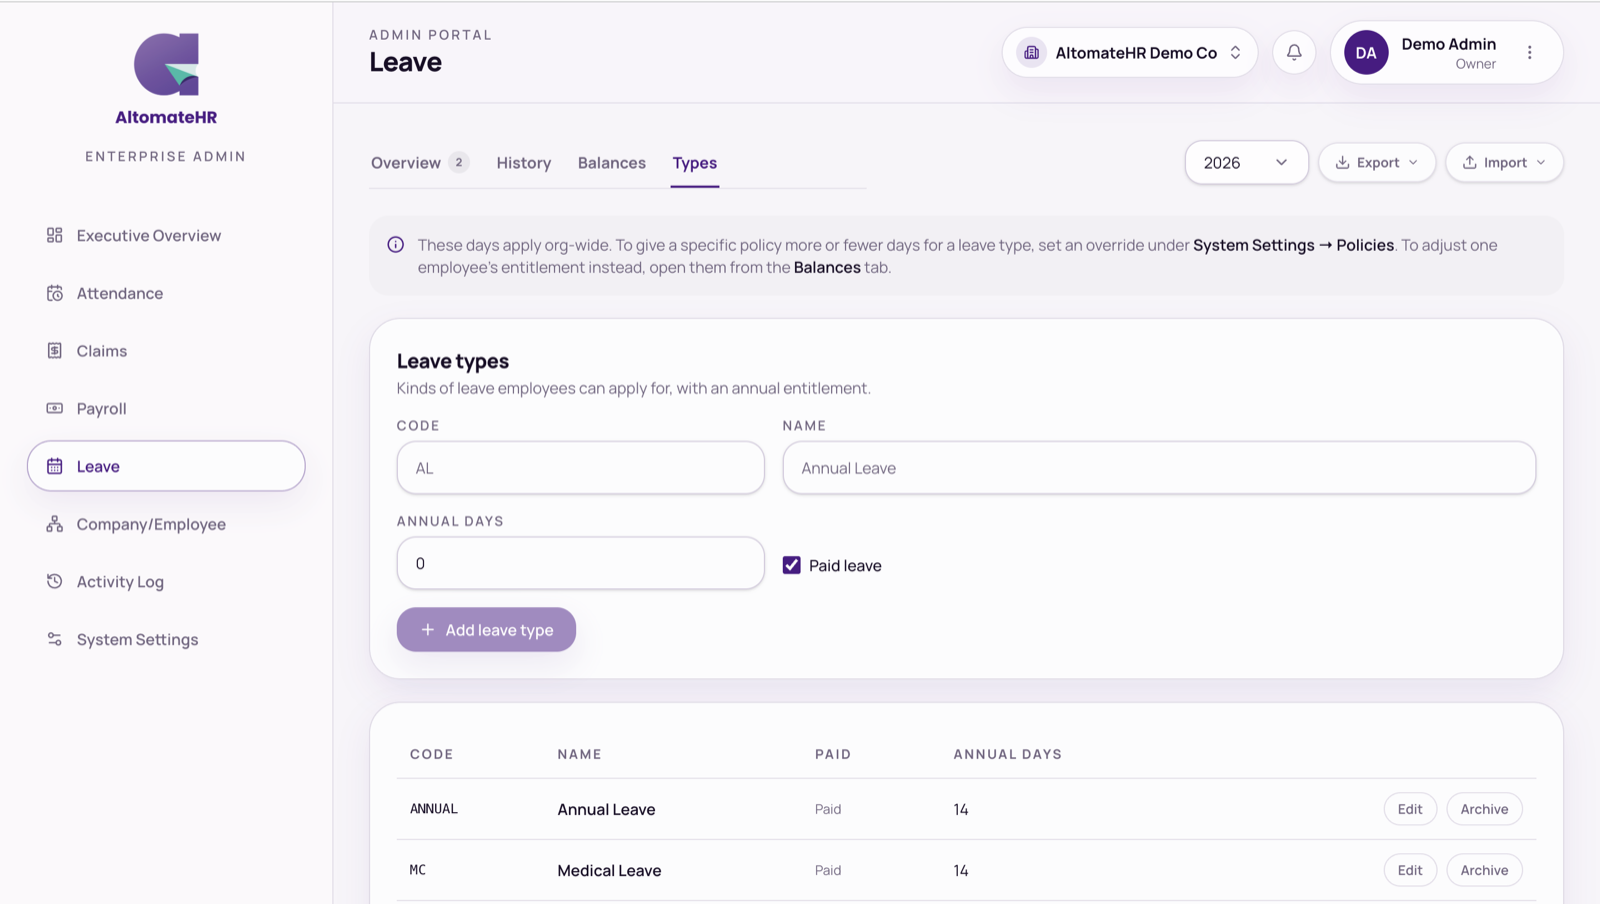
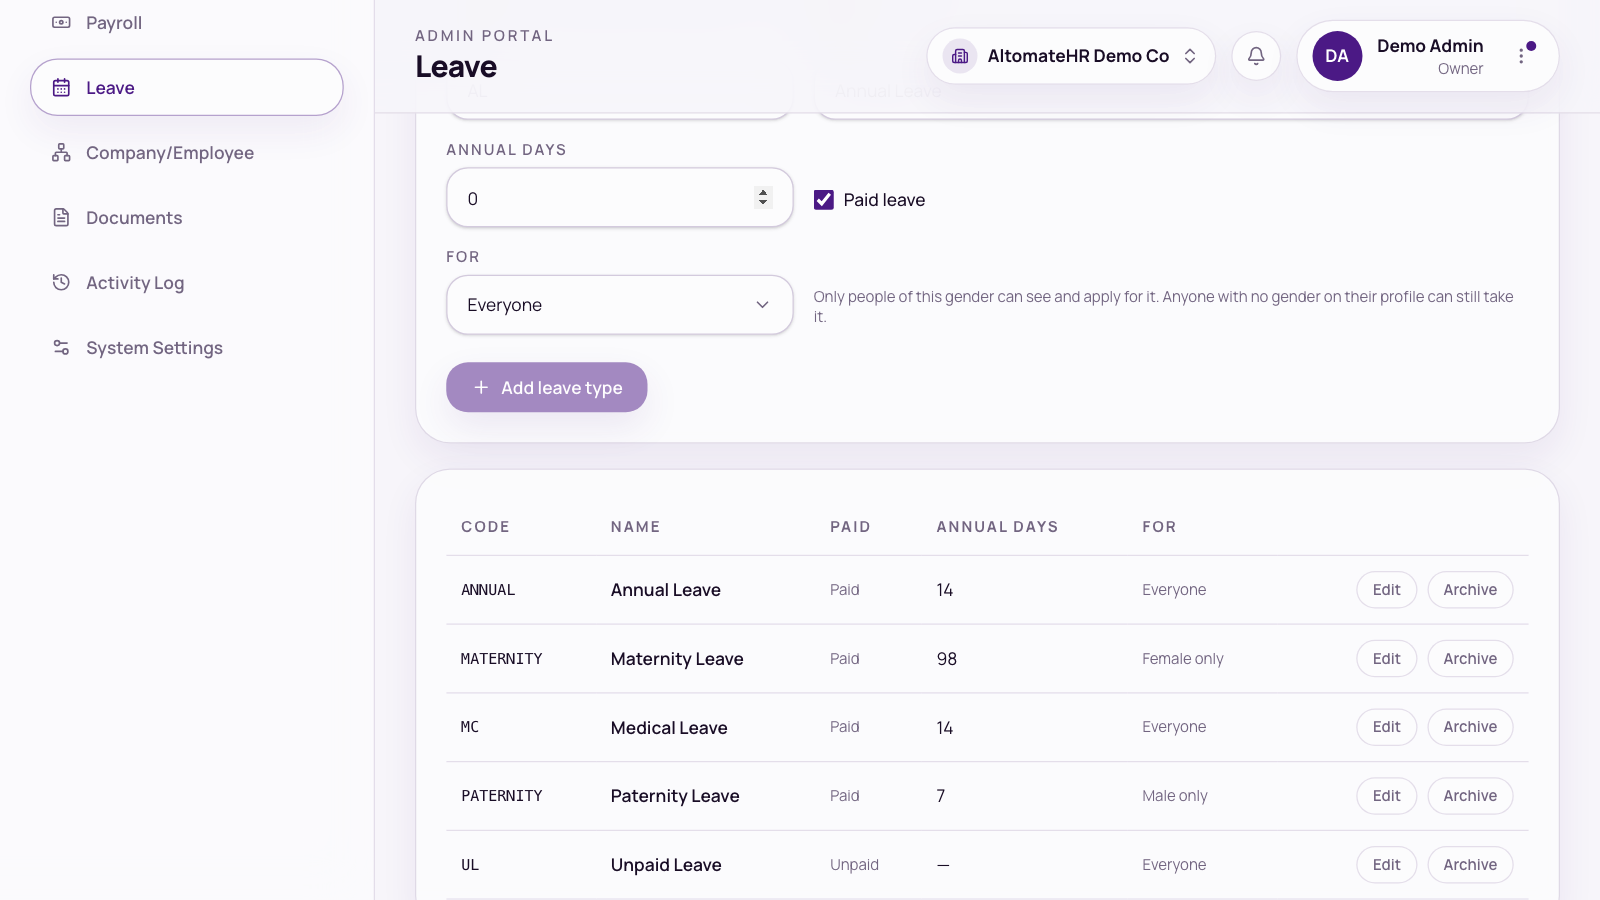
docs: what's new, API docs and user guides for the leave-type gender limit

diff --git a/api-docs/leave.html b/api-docs/leave.html
@@ -178,7 +178,7 @@
         <table>
           <thead><tr><th>Field</th><th>Type</th><th>Meaning</th></tr></thead>
           <tbody>
-            <tr><td><code>leaveTypeId</code>, <code>code</code>, <code>name</code></td><td>string</td><td>The leave type. Archived types are left out.</td></tr>
+            <tr><td><code>leaveTypeId</code>, <code>code</code>, <code>name</code></td><td>string</td><td>The leave type. Archived types are left out, and so is a type that isn't for this person (see <code>eligible</code>).</td></tr>
             <tr><td><code>paid</code></td><td>boolean</td><td></td></tr>
             <tr><td><code>year</code></td><td>number</td><td></td></tr>
             <tr><td><code>isOpened</code></td><td>boolean</td><td><code>false</code> when no entitlement row exists for that year yet (the year-end rollover hasn't run, and nothing has been filed). The figures are then a projection of what the rollover <em>would</em> create, not stored state.</td></tr>
@@ -191,6 +191,7 @@
             <tr><td><code>takenDays</code></td><td>number</td><td>Sum of <code>APPROVED</code> applications that <em>start</em> in this year.</td></tr>
             <tr><td><code>pendingDays</code></td><td>number</td><td>Sum of <code>PENDING</code> applications that start in this year. Not deducted from <code>remainingDays</code>.</td></tr>
             <tr><td><code>remainingDays</code></td><td>number</td><td>What the person may book now: the available bucket plus unexpired carry-forward, minus <code>takenDays</code>.</td></tr>
+            <tr><td><code>eligible</code></td><td>boolean</td><td>Whether the leave type is open to this person, going by the type's <code>eligibleGender</code> and the gender on their profile. <code>false</code> only on a gender-restricted type they have pending or approved leave of that year (see below); a new request for it is refused.</td></tr>
           </tbody>
         </table>
       </div>
@@ -209,8 +210,22 @@
   "carriedExpired": false,
   "takenDays": 2,
   "pendingDays": 0,
-  "remainingDays": 12
+  "remainingDays": 12,
+  "eligible": true
 }</code></pre>
+      <div class="callout">
+        <strong>A type that isn't for the person is left out.</strong> A leave type with an
+        <code>eligibleGender</code> (by default <code>MATERNITY</code> for <code>FEMALE</code> and
+        <code>PATERNITY</code> for <code>MALE</code>) doesn't appear in the balances of someone of
+        the other gender. The exception is leave they already have: if they have a
+        <code>PENDING</code> or <code>APPROVED</code> application of that type starting in the
+        year asked for, the type stays listed, with <code>eligible: false</code>, so the leave they
+        hold stays visible. Someone with no gender on their profile is treated as eligible for
+        everything, so nothing is hidden. The rule is applied by
+        <code>/leave/balances/all</code>, <code>/leave/balances/{employeeId}</code>,
+        <code>/leave/balances</code>, <code>/leave/team/balances</code> and the balance
+        spreadsheets, so a list can have fewer entries than <code>GET /leave-types</code>.
+      </div>
     </section>
 
     <section class="section" id="leave-types">
@@ -245,6 +260,7 @@
               <tr><td><code>carryExpiryMonth</code></td><td>number | null</td><td>Month (1–12) the carried days lapse.</td></tr>
               <tr><td><code>maxCarryForwardDays</code></td><td>number | null</td><td>Ceiling on carried days; <code>null</code> = uncapped.</td></tr>
               <tr><td><code>prorateFirstYear</code></td><td>boolean</td><td>Stored with the type. Only meaningful with <code>LUMP_SUM</code>.</td></tr>
+              <tr><td><code>eligibleGender</code></td><td>string | null</td><td>Who may take it: <code>FEMALE</code> or <code>MALE</code> for that gender only, <code>null</code> for everyone. Compared with the gender on the employee's profile (<a href="employees.html">employees.html</a>).</td></tr>
             </tbody>
           </table>
         </div>
@@ -285,6 +301,7 @@
               <tr><td><code>carryExpiryMonth</code></td><td>number</td><td>When <code>carryForward</code> is <code>true</code></td><td>1–12.</td></tr>
               <tr><td><code>maxCarryForwardDays</code></td><td>number | null</td><td>No</td><td>0 or more. <code>null</code> = no cap.</td></tr>
               <tr><td><code>prorateFirstYear</code></td><td>boolean</td><td>No</td><td>Default <code>false</code>.</td></tr>
+              <tr><td><code>eligibleGender</code></td><td>string | null</td><td>No</td><td><code>FEMALE</code> or <code>MALE</code> to limit the type to that gender; <code>null</code> or left out = everyone. Any other value is a <code>400</code>.</td></tr>
             </tbody>
           </table>
         </div>
@@ -323,7 +340,9 @@
           body; one you leave out falls back to its default (<code>paid</code> to <code>true</code>,
           <code>defaultDays</code> to <code>0</code>, <code>accrualMethod</code> to
           <code>LUMP_SUM</code>, <code>carryForward</code> and <code>prorateFirstYear</code> to
-          <code>false</code>, the carry fields to <code>null</code>). Read the type first and send
+          <code>false</code>, the carry fields and <code>eligibleGender</code> to <code>null</code> &mdash; so
+          omitting <code>eligibleGender</code> lifts a gender restriction, e.g. on
+          <code>MATERNITY</code>). Read the type first and send
           it back with your change. <code>isArchived</code> is not touched — use
           <a href="#archive-leave-type">archive/restore</a>.
         </div>
@@ -357,7 +376,8 @@
     "carryForward": true,
     "carryExpiryMonth": 3,
     "maxCarryForwardDays": 5,
-    "prorateFirstYear": false
+    "prorateFirstYear": false,
+    "eligibleGender": null
   }'</code></pre>
       </section>
 
@@ -417,6 +437,8 @@
           <code>ANNUAL</code> (14 days), <code>MEDICAL</code> (14), <code>COMPASSIONATE</code> (3),
           <code>HOSPITALIZATION</code> (60), <code>MARRIAGE</code> (3), <code>MATERNITY</code> (98),
           <code>PATERNITY</code> (7), and <code>UNPAID</code> (0, unpaid).
+          <code>MATERNITY</code> is created with <code>eligibleGender: "FEMALE"</code> and
+          <code>PATERNITY</code> with <code>"MALE"</code>; the others are open to everyone.
         </p>
         <h3>Response <code>200</code></h3>
 <pre><code>{ "added": 2 }</code></pre>
@@ -562,8 +584,9 @@
         </div>
         <h3>Response <code>200</code></h3>
         <p>
-          The person's resulting leave balance for that type. If the leave type is archived,
-          balances don't list it, and the call succeeds with <code>204</code> and no body.
+          The person's resulting leave balance for that type. If balances don't list the type
+          &mdash; it is archived, or it isn't for this person's gender and they have no leave of it
+          that year &mdash; the call still succeeds, with <code>204</code> and no body.
         </p>
         <h3>Errors</h3>
         <div class="table-wrap">
@@ -594,7 +617,7 @@
           accrual-method override. No request body; optional <code>?year=</code>.
         </p>
         <h3>Response <code>200</code></h3>
-        <p>The resulting leave balance (or <code>204</code> for an archived type, as above).</p>
+        <p>The resulting leave balance (or <code>204</code> when balances don't list the type, as above).</p>
         <h3>Errors</h3>
         <p>
           <code>400</code> <code>{ "message": "Leave type not found" }</code>;
@@ -834,7 +857,7 @@
           <table>
             <thead><tr><th>Field</th><th>Type</th><th>Required</th><th>Notes</th></tr></thead>
             <tbody>
-              <tr><td><code>leaveTypeId</code></td><td>string</td><td>Yes</td><td>Max 40 chars. From <code>GET /leave-types</code>; the type must not be archived.</td></tr>
+              <tr><td><code>leaveTypeId</code></td><td>string</td><td>Yes</td><td>Max 40 chars. From <code>GET /leave-types</code>; the type must not be archived and must be open to the employee's gender (see <code>eligibleGender</code>).</td></tr>
               <tr><td><code>startDate</code></td><td>string (date)</td><td>Yes</td><td><code>2026-03-02</code>.</td></tr>
               <tr><td><code>endDate</code></td><td>string (date)</td><td>Yes</td><td>Not before <code>startDate</code>.</td></tr>
               <tr><td><code>duration</code></td><td>string</td><td>No</td><td><code>FULL_DAY</code> (default), <code>MORNING</code> or <code>AFTERNOON</code>. A half day must start and end on the same date and counts as 0.5.</td></tr>
@@ -855,6 +878,13 @@
           skipped) it is refused too — this includes a half day on a non-working day or a
           holiday, which counts 0. The year checked is the year of <code>startDate</code>.
         </div>
+        <div class="callout warn">
+          <strong>Gender-restricted types.</strong> When the type has an <code>eligibleGender</code>
+          that differs from the gender on the employee's profile, the call is refused with
+          <code>400</code> <code>"&lt;Type name&gt; is only for female employees."</code> (or
+          <code>male</code>). An employee with no gender on file is allowed. This is checked before
+          the dates and balance. <a href="#import">Importing history</a> does not apply it.
+        </div>
         <p>
           Side effects: the person's entitlement row for that year is created if missing; the
           employee is notified that it was approved; approved <em>unpaid</em> leave marks any
@@ -867,7 +897,7 @@
             <thead><tr><th>Status</th><th>When</th><th>Body</th></tr></thead>
             <tbody>
               <tr><td><code>400</code></td><td>Missing or over-long field</td><td><code>{ "errors": { "Field": ["message"] } }</code></td></tr>
-              <tr><td><code>400</code></td><td>A rule refused it</td><td><code>{ "message": "…" }</code> — <code>Leave type not found</code>, <code>Leave type is archived</code>, <code>End date is before start date</code>, <code>Half-day leave must start and end on the same day</code>, <code>Selected dates contain no working days</code>, <code>Insufficient balance: requesting 3 but only 2 available</code></td></tr>
+              <tr><td><code>400</code></td><td>A rule refused it</td><td><code>{ "message": "…" }</code> — <code>Leave type not found</code>, <code>Leave type is archived</code>, <code>Maternity Leave is only for female employees.</code> (the type's own name, and <code>female</code> or <code>male</code> to match its <code>eligibleGender</code>), <code>End date is before start date</code>, <code>Half-day leave must start and end on the same day</code>, <code>Selected dates contain no working days</code>, <code>Insufficient balance: requesting 3 but only 2 available</code></td></tr>
               <tr><td><code>404</code></td><td>The employee isn't a member of this company</td><td><code>{ "message": "Employee not found." }</code></td></tr>
             </tbody>
           </table>
@@ -1475,8 +1505,9 @@
           <a href="#on-behalf">file on behalf</a> and replaces the request's type, dates,
           duration and reason. It is refused (<code>400</code>, <code>{ "message": "…" }</code>)
           once an approver has acted, when the request is not <code>PENDING</code>, when it was
-          imported or filed by an admin, or when it switches to an archived leave type. Keeping
-          the request's own type is allowed even if that type has since been archived. If type,
+          imported or filed by an admin, or when it switches to an archived leave type or to one that isn't for the
+          applicant's gender (<code>"&lt;Type name&gt; is only for female employees."</code>). Keeping
+          the request's own type is allowed even if that type has since been archived or restricted. If type,
           dates and duration are unchanged, <code>totalDays</code> is kept and the balance is not
           re-checked; otherwise the days are recounted and, for a paid type, checked against the
           balance. The attachment is replaced only when the body carries a new one (an

diff --git a/user-guide/altomatehr-admin-guide.html b/user-guide/altomatehr-admin-guide.html
@@ -7,7 +7,7 @@
   Bookmark: this page is correct as of this commit on main. The next update
   re-checks every user-visible change after it — from any branch — then
   moves it forward.
-  user-guide-covered-up-to: c89867e
+  user-guide-covered-up-to: 89ff90b
 -->
 <html lang="en">
 <head>
@@ -1139,10 +1139,21 @@
       <li><strong>Balances</strong> — every staff member's remaining days per leave type (Employees and Supervisors; the
         Owner and admins aren't listed, and aren't in the export either). Open a person to
         <span class="btn-name">Apply on behalf</span> (recorded as approved straight away), change or reset their
-        entitlement, or export their leave report.</li>
-      <li><strong>Types</strong> — your leave types (code, name, annual days, paid or unpaid), and for Annual Leave:
-        lump sum or pro-rated, and carry-forward with its expiry month and maximum days.</li>
+        entitlement, or export their leave report. A person's list shows only the leave types that are for them (see
+        <em>Types</em>), so maternity doesn't appear for a man.</li>
+      <li><strong>Types</strong> — your leave types (code, name, annual days, paid or unpaid, and who it's <strong>For</strong>),
+        and for Annual Leave: lump sum or pro-rated, and carry-forward with its expiry month and maximum days.</li>
     </ul>
+    <h3>Leave for one gender only</h3>
+    <p>Each leave type has a <strong>For</strong> setting: <em>Everyone</em>, <em>Female only</em> or <em>Male only</em>.
+      Pick it when you add a type with <span class="btn-name">Add leave type</span>, or change it with
+      <span class="btn-name">Edit</span> on the type's row. New companies start with Maternity Leave set to
+      <em>Female only</em> and Paternity Leave to <em>Male only</em>; every other type is for everyone.</p>
+    <p>Employees only see the types that are for them when they apply for leave, and so do you in
+      <span class="btn-name">Apply on behalf</span> and in a person's leave balances. The setting follows the
+      <strong>Gender</strong> on the employee's profile. Someone with no gender on their profile can take either, so fill
+      it in for anyone who might apply for maternity or paternity leave. If a person already has leave of a type that
+      isn't for them, it stays in their history and balances, marked as not eligible, but they can't apply for more of it.</p>
     <h3>Employees changing their own leave</h3>
     <p>An employee can <span class="btn-name">Edit</span> their own pending leave (type, dates, reason, attachment) until
       an approver has acted on it. It stays pending and stays in the approver's queue, with the days counted again for
@@ -1179,7 +1190,7 @@
           <p class="shot-cap">Balances</p>
         </div>
         <div class="shot-item">
-          <img src="shots/admin/leave-types.png" alt="Leave → Types with the leave types listed" loading="lazy">
+          <img src="shots/admin/leave-types.png" alt="Leave → Types with the For setting on the add form and a For column showing Everyone, Female only or Male only" loading="lazy">
           <p class="shot-cap">Types</p>
         </div>
       </div>

diff --git a/frontend/src/features/whats-new/lib/entries.ts b/frontend/src/features/whats-new/lib/entries.ts
@@ -8,7 +8,7 @@
 //
 // Bookmark: the last commit on main these notes already cover. The next update
 // writes up everything after it — from any branch — then moves it forward.
-// whats-new-covered-up-to: ab4a73d
+// whats-new-covered-up-to: 89ff90b
 
 export type WhatsNewEntry = {
   /** Release day, yyyy-MM-dd (Malaysia time). Also what "unread" compares. */
@@ -23,7 +23,11 @@ export type WhatsNewEntry = {
 export const WHATS_NEW: WhatsNewEntry[] = [
   {
     date: "2026-10-16",
+    new: [
+      "Admins: in Leave → Types, choose who each leave type is for: Everyone, Female only or Male only. Maternity and Paternity come set to Female only and Male only, for every company.",
+    ],
     improved: [
+      "Leave: you now only see and apply for types that are for you, and admins' balances follow the same rule. Anyone with no gender on their profile can still take either type.",
       "The Launch Appraisify button in your account menu now opens Appraisify in a new tab, so AltomateHR stays open. If your browser blocks the new tab, or you use AltomateHR from your home screen, it opens here as before.",
       "Admins: the CIMB bank file no longer asks for a payment date in Payroll → Run downloads, as BizChannel sets it when you upload.",
     ],
@@ -31,6 +35,7 @@ export const WHATS_NEW: WhatsNewEntry[] = [
       "Admins: a bank file no longer goes out with a blank account number. If someone's account number has no digits, such as N/A, the file is refused and names them. This applies to approved months too.",
       "Admins: the CIMB bank file no longer cuts a long account number short, which could send pay to the wrong account. It's refused and names the person to check instead.",
       "Admins: when a company pays an extra EPF rate on top of the statutory one, employer EPF and cost to employer were RM 1–6 too high. Re-run draft payroll to apply the fix; approved months keep what was filed.",
+      "Admins: saving a leave type in Leave → Types no longer turns off \"prorate first year\".",
     ],
   },
   {

diff --git a/user-guide/altomatehr-employee-guide.html b/user-guide/altomatehr-employee-guide.html
@@ -7,7 +7,7 @@
   Bookmark: this page is correct as of this commit on main. The next update
   re-checks every user-visible change after it — from any branch — then
   moves it forward.
-  user-guide-covered-up-to: c89867e
+  user-guide-covered-up-to: 89ff90b
 -->
 <html lang="en">
 <head>
@@ -657,6 +657,8 @@
     <ol class="steps">
       <li><h4>Tap + (Apply for leave)</h4><p>Or <span class="btn-name">Request leave</span> on the Dashboard.</p></li>
       <li><h4>Pick the type and dates</h4><p>Your balance for that type shows as you choose. Unpaid leave has no balance.
+        The list only shows the types that are for you — for example Maternity Leave for women and Paternity Leave for
+        men, going by the gender on your profile. If one you expect is missing, ask HR to check your profile.
         Under the dates, the form shows <em>Duration</em> in working days — the number that will come off your balance.</p></li>
       <li><h4>Add a reason and attachment</h4><p>Both optional — attach your MC here (a photo or PDF, up to 8 MB).</p></li>
       <li><h4>Submit</h4><p>It goes to your supervisor. You'll get a notification when it's decided.</p></li>

diff --git a/api-docs/employees.html b/api-docs/employees.html
@@ -351,7 +351,7 @@
             <tbody>
               <tr><td><code>phone</code></td><td>string | null</td><td></td></tr>
               <tr><td><code>alternateEmail</code></td><td>string | null</td><td>Not used to sign in.</td></tr>
-              <tr><td><code>gender</code></td><td>string | null</td><td><code>MALE</code> or <code>FEMALE</code>.</td></tr>
+              <tr><td><code>gender</code></td><td>string | null</td><td><code>MALE</code> or <code>FEMALE</code>. Also decides which gender-restricted leave types (<a href="leave.html#balances">maternity, paternity</a>) the person can take; <code>null</code> means unrestricted.</td></tr>
               <tr><td><code>dateOfBirth</code></td><td>string (date) | null</td><td></td></tr>
               <tr><td><code>nationality</code></td><td>string | null</td><td>Normalised against the dropdown's spelling (e.g. "Malaysia" → "Malaysian").</td></tr>
               <tr><td><code>race</code></td><td>string | null</td><td></td></tr>

diff --git a/api-docs/index.html b/api-docs/index.html
@@ -25,7 +25,7 @@
   Bookmark: the pages that exist are correct as of this commit on main. The
   next update re-checks every controller/DTO changed after it — from any
   branch — then moves it forward.
-  api-docs-covered-up-to: ab4a73d
+  api-docs-covered-up-to: 89ff90b
 -->
 <div class="layout">
   <nav class="sidebar" aria-label="Documentation">
